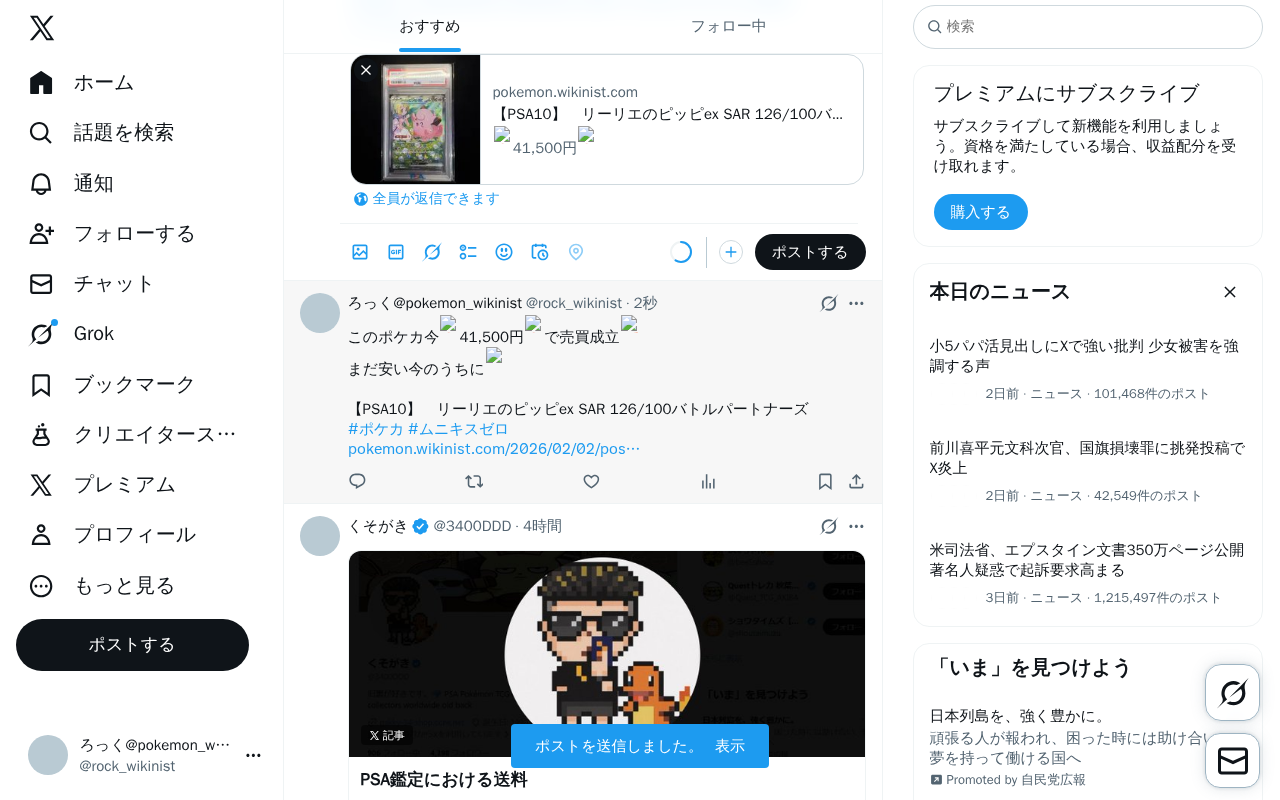
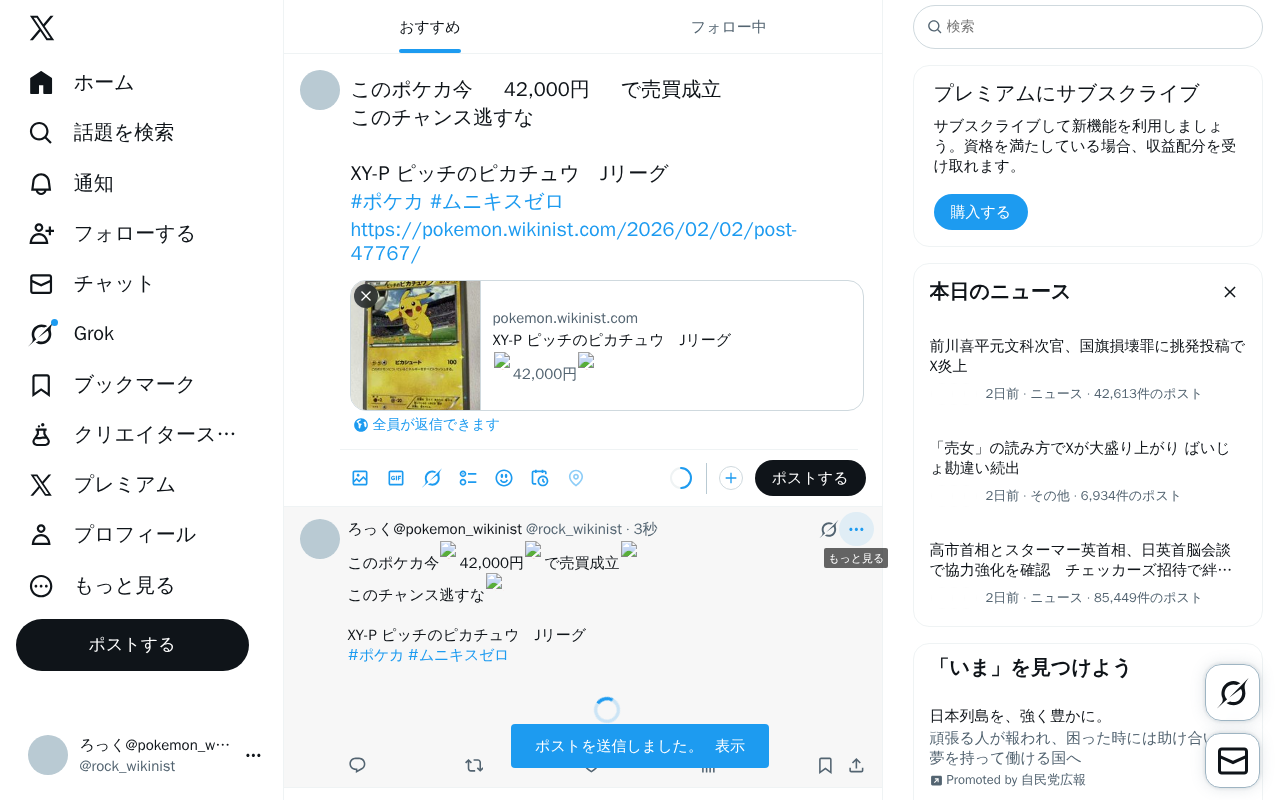
update system data

diff --git a/content/posts/test-pokemon-20260202-210904.md b/content/posts/test-pokemon-20260202-210904.md
@@ -1,0 +1,38 @@
+---
+title: "XY-P ピッチのピカチュウ　Jリーグ"
+date: 2026-02-02T21:09:04+09:00
+description: "🔥42,000円🔥 メルカリで「XY-P ピッチのピカチュウ　Jリーグ」が販売中！"
+amazon_url: "https://jp.mercari.com/item/m95364256651?afid=1391290753"
+robotsNoIndex: true
+categories: ["ポケモン"]
+tags: ["ピカチュウ", "3万円以上"]
+cover:
+  image: "https://static.mercdn.net/thumb/item/webp/m95364256651_1.jpg?1770033849"
+  hiddenInList: true
+  hiddenInSingle: true
+---
+
+<div class="image-and-buttons">
+    <div class="image-area" style="margin-bottom: 20px; text-align: center;">
+        <a href="https://jp.mercari.com/item/m95364256651?afid=1391290753" target="_blank" rel="nofollow sponsored noopener noreferrer">
+            <img src="https://static.mercdn.net/thumb/item/webp/m95364256651_1.jpg?1770033849" alt="42,000" style="max-width: 100%; border-radius: 8px; border: 1px solid #ddd;" />
+        </a>
+        <br><span style="font-size:1.5em;color:red;font-weight:bold;">🔥42,000円🔥</span>
+    </div>
+    <div class="link-buttons">
+        <a href="https://jp.mercari.com/item/m95364256651?afid=1391290753" target="_blank" rel="nofollow sponsored noopener noreferrer">
+            💎 商品状態を見る
+        </a>
+        <a href="https://jp.mercari.com/search?afid=1391290753&category_id=1289&keyword=XY-P%20%E3%83%94%E3%83%83%E3%83%81%E3%81%AE%E3%83%94%E3%82%AB%E3%83%81%E3%83%A5%E3%82%A6%E3%80%80J%E3%83%AA%E3%83%BC%E3%82%B0" target="_blank" rel="nofollow sponsored noopener noreferrer">
+            🔍 類似商品を見る
+        </a>
+        <a href="https://jp.mercari.com/search?afid=1391290753&brand_id=&category_id=1289&color_id=&item_condition_id=&item_types=&keyword=XY-P%20%E3%83%94%E3%83%83%E3%83%81%E3%81%AE%E3%83%94%E3%82%AB%E3%83%81%E3%83%A5%E3%82%A6%E3%80%80J%E3%83%AA%E3%83%BC%E3%82%B0&order=desc&shipping_method=&shipping_payer_id=&size_id=&sort=created_time&status=sold_out%2Ctrading" target="_blank" rel="nofollow sponsored noopener noreferrer">
+            📈 価格推移・履歴を見る
+        </a>
+    </div>
+</div>
+
+<p style="font-size:1.0em;color:#555;line-height:1.6;">
+「XY-P ピッチのピカチュウ　Jリーグ」はメルカリに出品されました！<br>
+最新のポケモン情報は当サイトで随時更新中です。
+</p>
